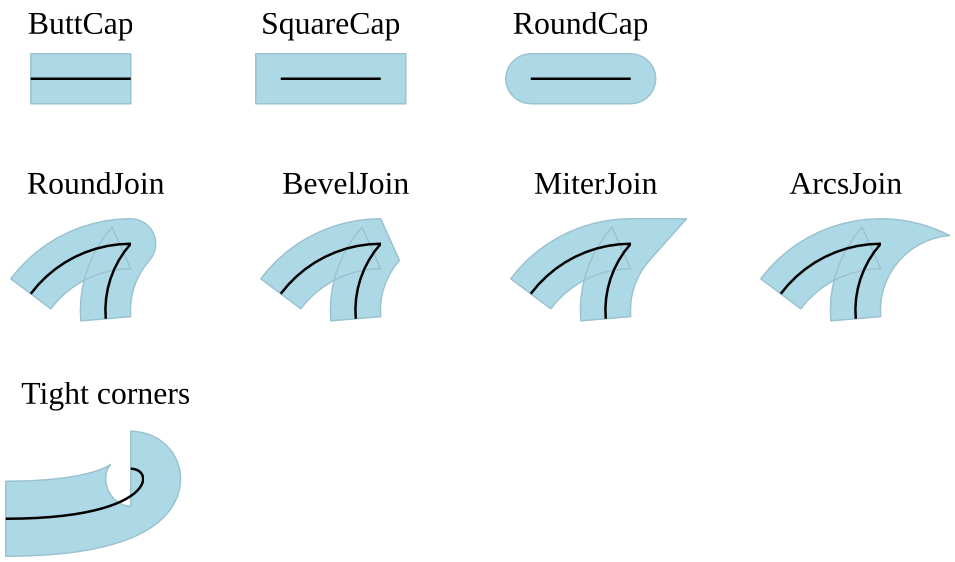
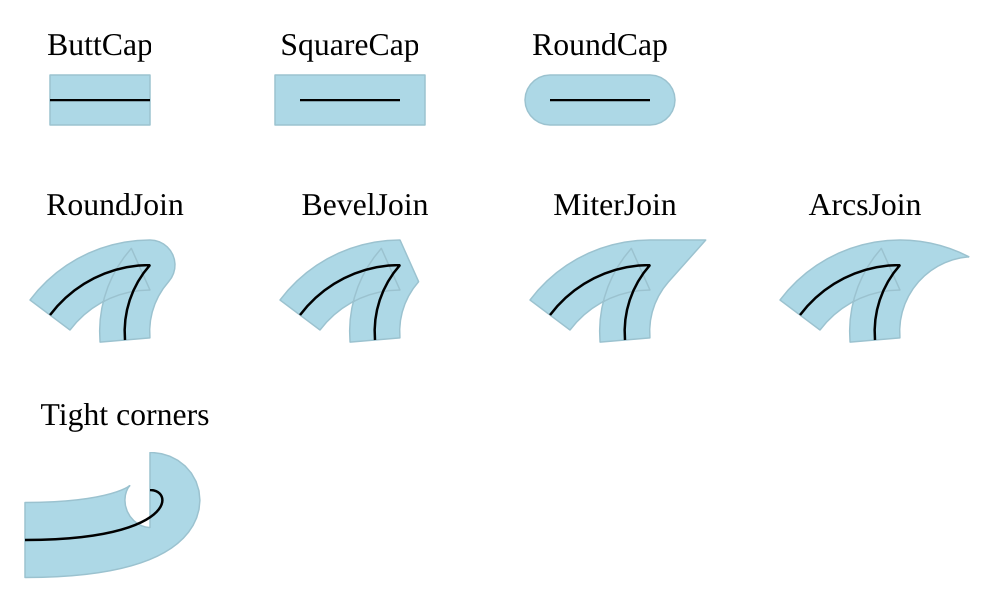
Update documentation

diff --git a/resources/docs/paths/main.go b/resources/docs/paths/main.go
@@ -1,0 +1,95 @@
+package main
+
+import (
+	"github.com/tdewolff/canvas"
+	"github.com/tdewolff/canvas/renderers/rasterizer"
+)
+
+var fontFamily *canvas.FontFamily
+var strokeWidth = 10.0
+
+func main() {
+	fontFamily = canvas.NewFontFamily("times")
+	if err := fontFamily.LoadLocalFont("Liberation Serif", canvas.FontRegular); err != nil {
+		panic(err)
+	}
+
+	c := canvas.New(160, 80)
+	ctx := canvas.NewContext(c)
+	ctx.SetFillColor(canvas.White)
+	ctx.DrawPath(0, 0, canvas.Rectangle(c.W, c.H))
+	draw(ctx)
+	c.WriteFile("paths.png", rasterizer.PNGWriter(5.0))
+}
+
+func drawPos(c *canvas.Context, x, y float64) {
+	c.SetFillColor(canvas.Darkred)
+	c.SetStrokeColor(canvas.Transparent)
+	c.DrawPath(x-1.5, y-1.5, canvas.Rectangle(3.0, 3.0))
+}
+
+func drawControl(c *canvas.Context, x, y float64) {
+	c.SetFillColor(canvas.Darkgreen)
+	c.SetStrokeColor(canvas.Transparent)
+	c.DrawPath(x-1.5, y-1.5, canvas.Circle(1.2))
+}
+
+func drawPath(c *canvas.Context, x, y float64, path string, moveto bool) {
+	p, err := canvas.ParseSVG(path)
+	if err != nil {
+		panic(err)
+	}
+	c.SetFillColor(canvas.Transparent)
+	c.SetStrokeColor(canvas.Black)
+	c.SetStrokeWidth(0.5)
+	if moveto {
+		c.SetDashes(0.0, 2.0)
+	}
+	c.DrawPath(x, y, p)
+	if moveto {
+		c.SetDashes(0.0)
+	}
+}
+
+func drawText(c *canvas.Context, x, y float64, text string) {
+	face := fontFamily.Face(18.0, canvas.Black, canvas.FontRegular, canvas.FontNormal)
+	c.SetFillColor(canvas.Black)
+	c.DrawText(x, y, canvas.NewTextLine(face, text, canvas.Center))
+}
+
+func draw(c *canvas.Context) {
+	x, y := 20.0, 60.0
+	drawText(c, x, y+10, "MoveTo")
+	drawPath(c, x, y, "M-15,-5L15,5", true)
+	drawPos(c, x-15, y-5)
+	drawPos(c, x+15, y+5)
+	x += 60
+
+	drawText(c, x, y+10, "LineTo")
+	drawPath(c, x, y, "M-15,-5L15,5", false)
+	drawPos(c, x-15, y-5)
+	drawPos(c, x+15, y+5)
+	x += 60
+
+	drawText(c, x, y+10, "QuadTo")
+	drawPath(c, x, y, "M-15,-5Q-10,5 15,5", false)
+	drawPos(c, x-15, y-5)
+	drawControl(c, x-10, y+5)
+	drawPos(c, x+15, y+5)
+	x = 20
+	y -= 40.0
+
+	drawText(c, x, y+10, "CubeTo")
+	drawPath(c, x, y, "M-15,-5C-10,5 20,-10 15,5", false)
+	drawPos(c, x-15, y-5)
+	drawControl(c, x-10, y+5)
+	drawControl(c, x+20, y-10)
+	drawPos(c, x+15, y+5)
+	x += 60
+
+	drawText(c, x, y+10, "ArcTo")
+	drawPath(c, x, y, "M-15,-5A10,10 0 1 1 15,5", false)
+	drawPos(c, x-15, y-5)
+	drawPos(c, x+15, y+5)
+	x += 60
+}

diff --git a/resources/title/main.go b/resources/title/main.go
@@ -53,8 +53,9 @@ func draw(c *canvas.Context) {
 	p, adv, _ = face.ToPath("s")
 	c.SetFillColor(color.RGBA{224, 160, 0, 255})
 	c.DrawPath(x, 4, p)
-	//x += adv
+	x += adv
 
 	//c.SetFillColor(color.RGBA{224, 224, 224, 255})
 	//c.DrawPath(2, 2, canvas.Rect{0, 0, x - 2.0, 1.0}.ToPath())
+	_ = x
 }

diff --git a/resources/docs/stroke/main.go b/resources/docs/stroke/main.go
@@ -19,8 +19,9 @@ func main() {
 
 	c := canvas.New(200, 120)
 	ctx := canvas.NewContext(c)
+	ctx.SetFillColor(canvas.White)
+	ctx.DrawPath(0, 0, canvas.Rectangle(c.W, c.H))
 	draw(ctx)
-	c.Fit(1.0)
 	c.WriteFile("stroke.png", rasterizer.PNGWriter(5.0))
 }
 
